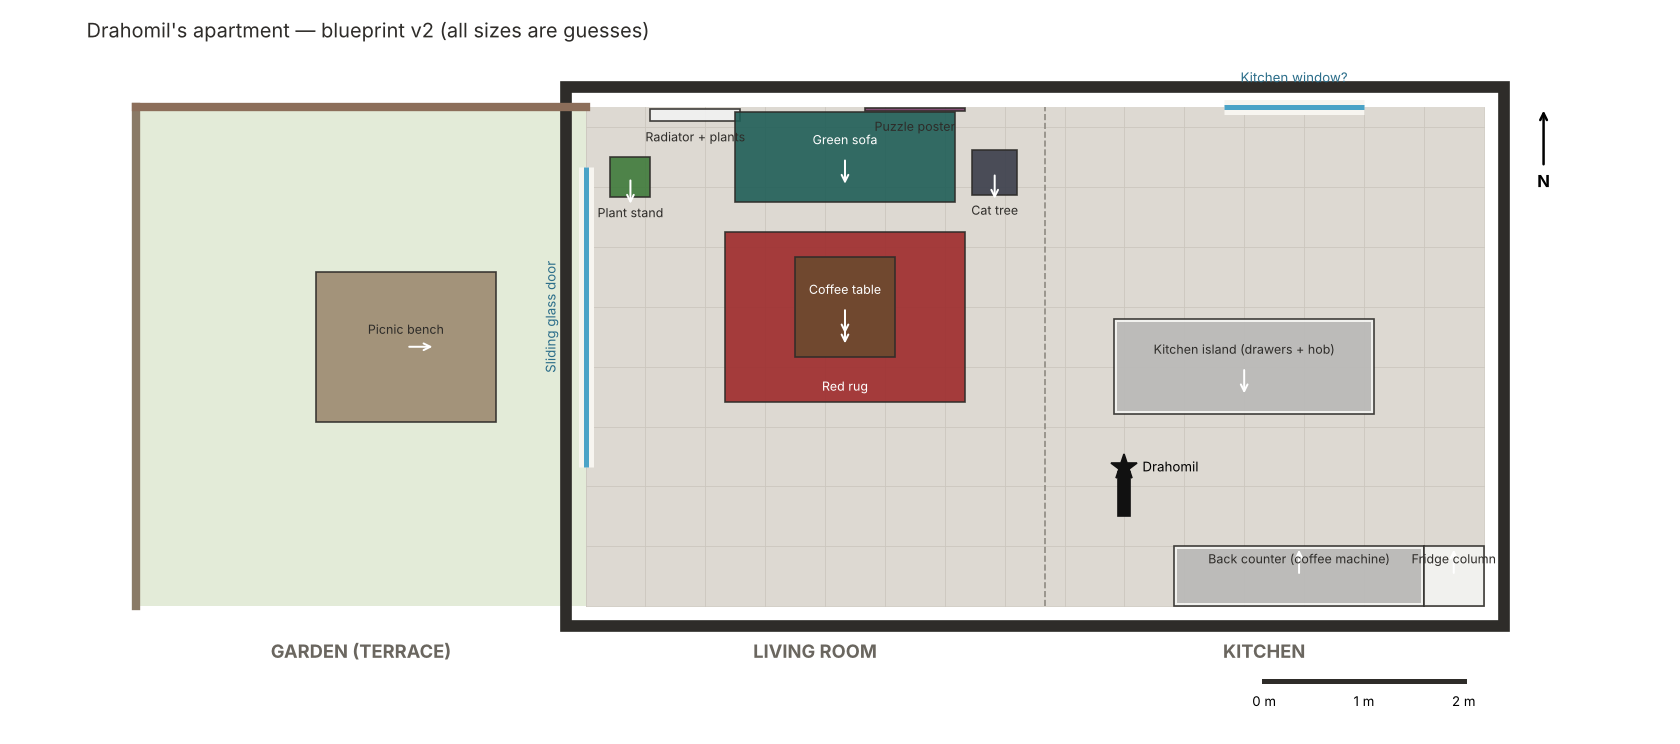
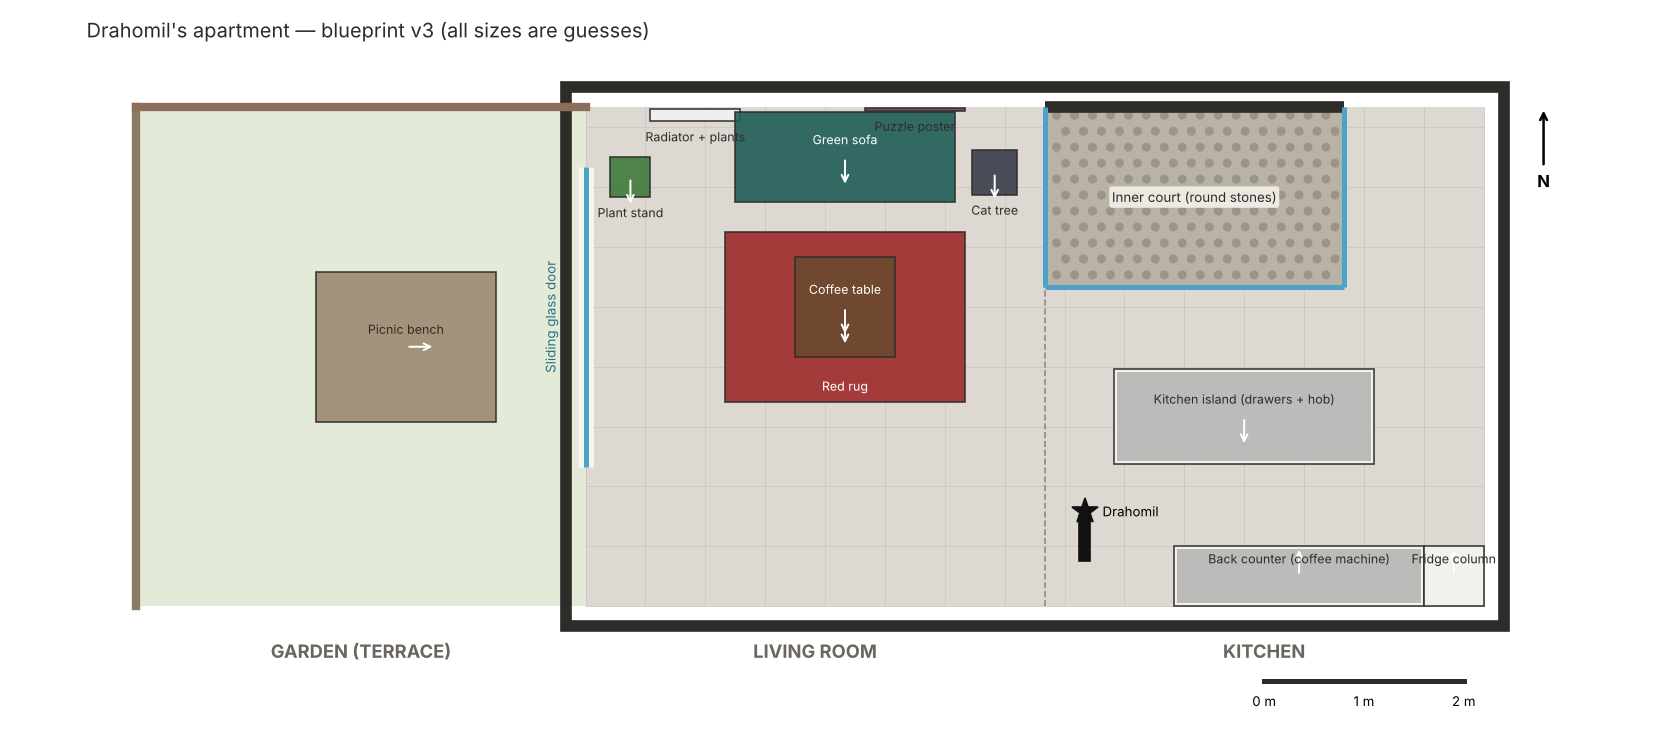
Blueprint v3: add the inner court north of the kitchen
Claude-Session: https://claude.ai/code/session_01SZGSXzGr2wVTQ6dNG9kPYP

Changed region(s): [[0.619, 0.0927, 0.8357, 0.7728], [0.2476, 0.0309, 0.2786, 0.0618]]

diff --git a/Tools/Level/render_blueprint.py b/Tools/Level/render_blueprint.py
@@ -63,6 +63,29 @@ def main(src, dst):
     for r in inside[1:]:
         ax.plot([r["x0"], r["x0"]], [r["z0"], r["z1"]], ls="--", color="#8E8A82", lw=1, zorder=2)
 
+    # Open-air courts inside the building: stones, glass walls on the listed sides.
+    for c in lay.get("courts", []):
+        cw, cd = c["x1"] - c["x0"], c["z1"] - c["z0"]
+        ax.add_patch(mp.Rectangle((c["x0"], c["z0"]), cw, cd, facecolor=c["color"], edgecolor="none", zorder=3))
+        n = 0
+        zz = c["z0"] + 0.12
+        while zz < c["z1"] - 0.05:
+            xx = c["x0"] + 0.12 + (0.09 if n % 2 else 0)
+            while xx < c["x1"] - 0.05:
+                ax.add_patch(mp.Circle((xx, zz), 0.045, facecolor="#9C9488", edgecolor="none", zorder=4))
+                xx += 0.18
+            zz += 0.16
+            n += 1
+        sides = {"south": ((c["x0"], c["z0"]), (c["x1"], c["z0"])), "north": ((c["x0"], c["z1"]), (c["x1"], c["z1"])),
+                 "west": ((c["x0"], c["z0"]), (c["x0"], c["z1"])), "east": ((c["x1"], c["z0"]), (c["x1"], c["z1"]))}
+        for side, ((sx0, sz0), (sx1, sz1)) in sides.items():
+            glass = side in c.get("glass", [])
+            ax.plot([sx0, sx1], [sz0, sz1], color="#4BA3C7" if glass else "#2E2C29", lw=3 if glass else 7,
+                    zorder=8, solid_capstyle="butt")
+        ax.text((c["x0"] + c["x1"]) / 2, (c["z0"] + c["z1"]) / 2, c["label"], ha="center", va="center",
+                fontsize=8, zorder=9, color="#2E2C29",
+                bbox=dict(boxstyle="round,pad=0.2", facecolor="#F7F5F0", edgecolor="none", alpha=0.85))
+
     # Outer walls.
     ax.add_patch(mp.Rectangle((x0 - t, z0 - t), x1 - x0 + 2 * t, z1 - z0 + 2 * t, fill=False,
                               edgecolor="#2E2C29", lw=7, zorder=6))

diff --git a/docs/APARTMENT.md b/docs/APARTMENT.md
@@ -17,6 +17,7 @@ We make a blueprint first. We place and colour the models only after the bluepri
 | Floor | Large dark-grey tiles (about 60 × 60 cm) everywhere inside. |
 | Kitchen | Island with white handle-less drawers, dark-grey top, black induction hob. A back counter with a coffee machine in front of a wood panel wall. |
 | Living room | Teal velvet 3-seat sofa against the far wall. Radiator with plants on the left. Wooden square coffee table on a red patterned rug. Cat tree (grey, sisal post) to the right of the sofa. Puzzle poster above the sofa. |
+| Inner court | Open-air court with round stones, 1.8 m × 3 m, north of the kitchen. Wall-high glass on the south, west and east sides; solid north wall in line with the living room north wall. |
 | Garden side | Floor-to-ceiling sliding glass door. Outside: terrace tiles, a wooden picnic bench, a wooden fence and a brick wall. |
 | Cat ideas | Open drawers to hide in (video), the cat tree, the radiator shelf with plants, the sofa back. |
 
